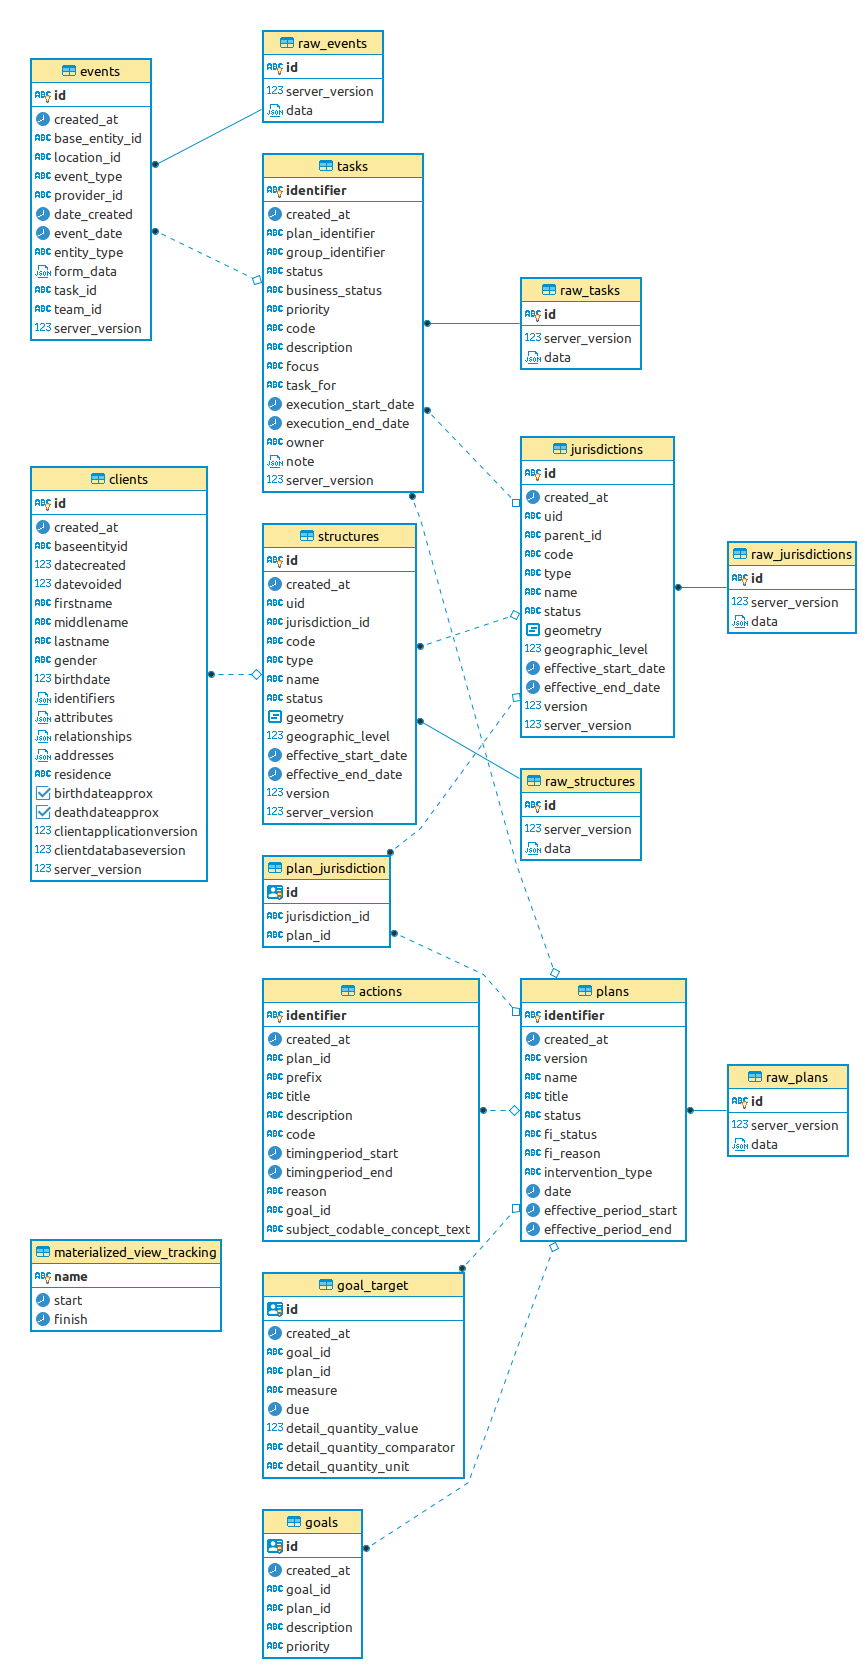
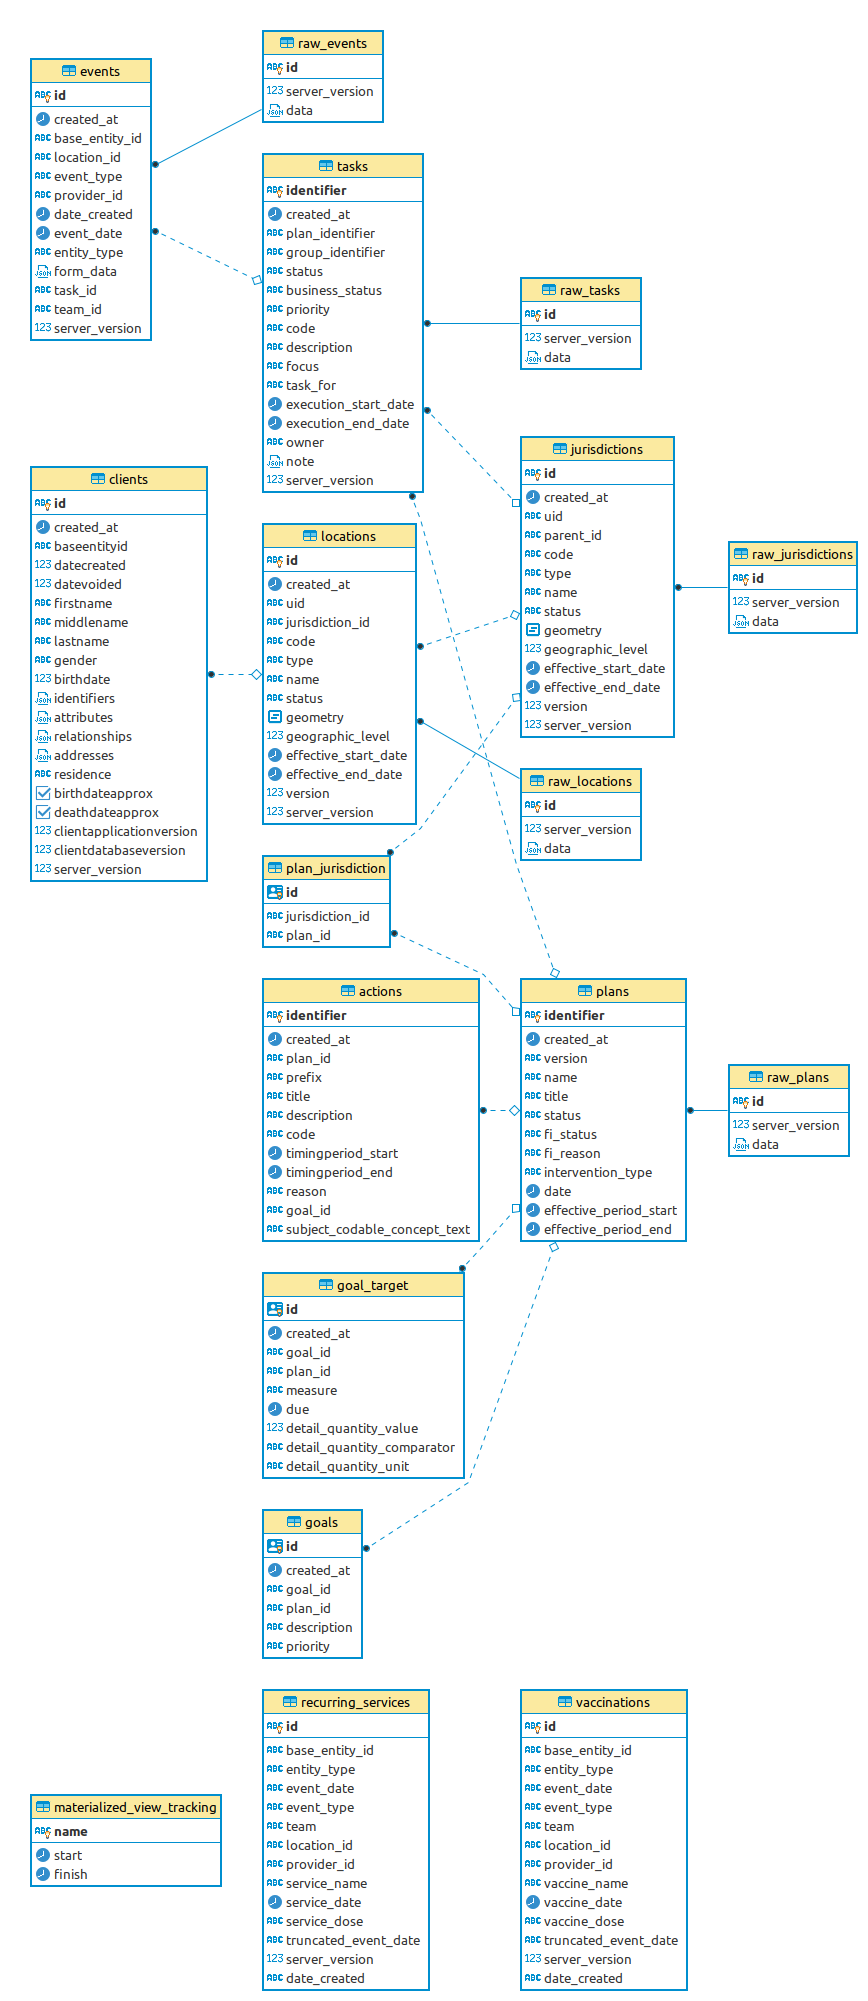
Rename structures to locations

diff --git a/3-reveal/migrations/2-transaction_tables/README.md b/3-reveal/migrations/2-transaction_tables/README.md
@@ -12,7 +12,7 @@ These are the resulting tables:
 - [jurisdictions](deploy/jurisdictions.psql): stores jurisdictions
 - [plan_jurisdiction](deploy/plan_jurisdiction.psql): maps plans to jurisdictions
 - [plans](deploy/plans.psql): stores plans
-- [structures](deploy/structures.psql): stores structures
+- [locations](deploy/locations.psql): stores locations
 - [tasks](deploy/tasks.psql): stores tasks
 
 ## ERD
